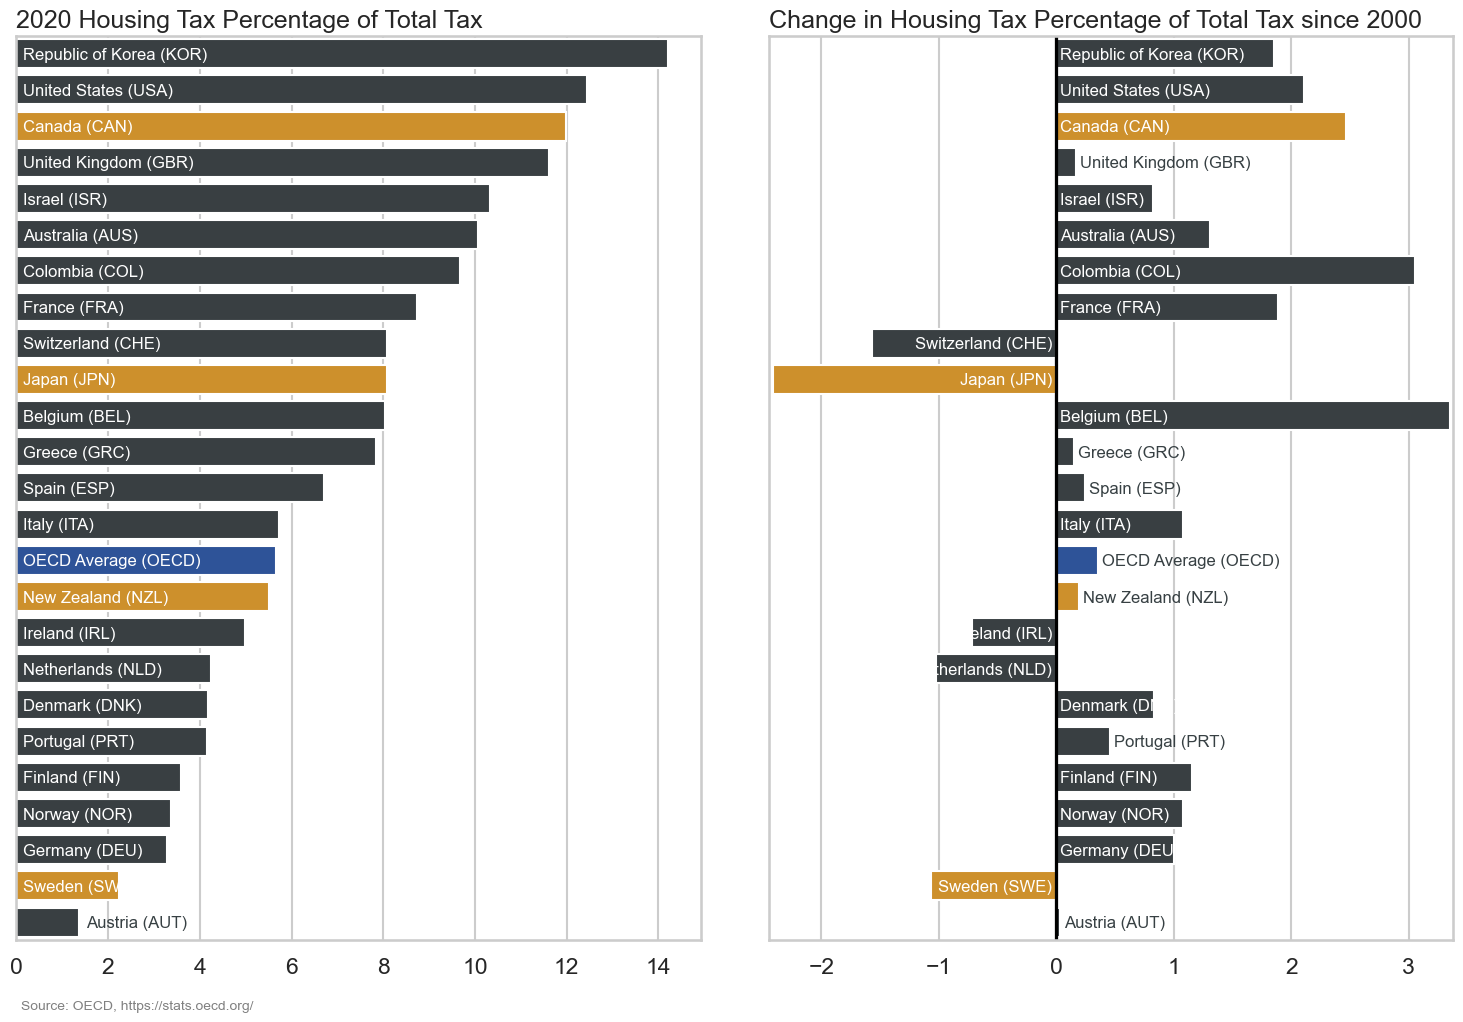
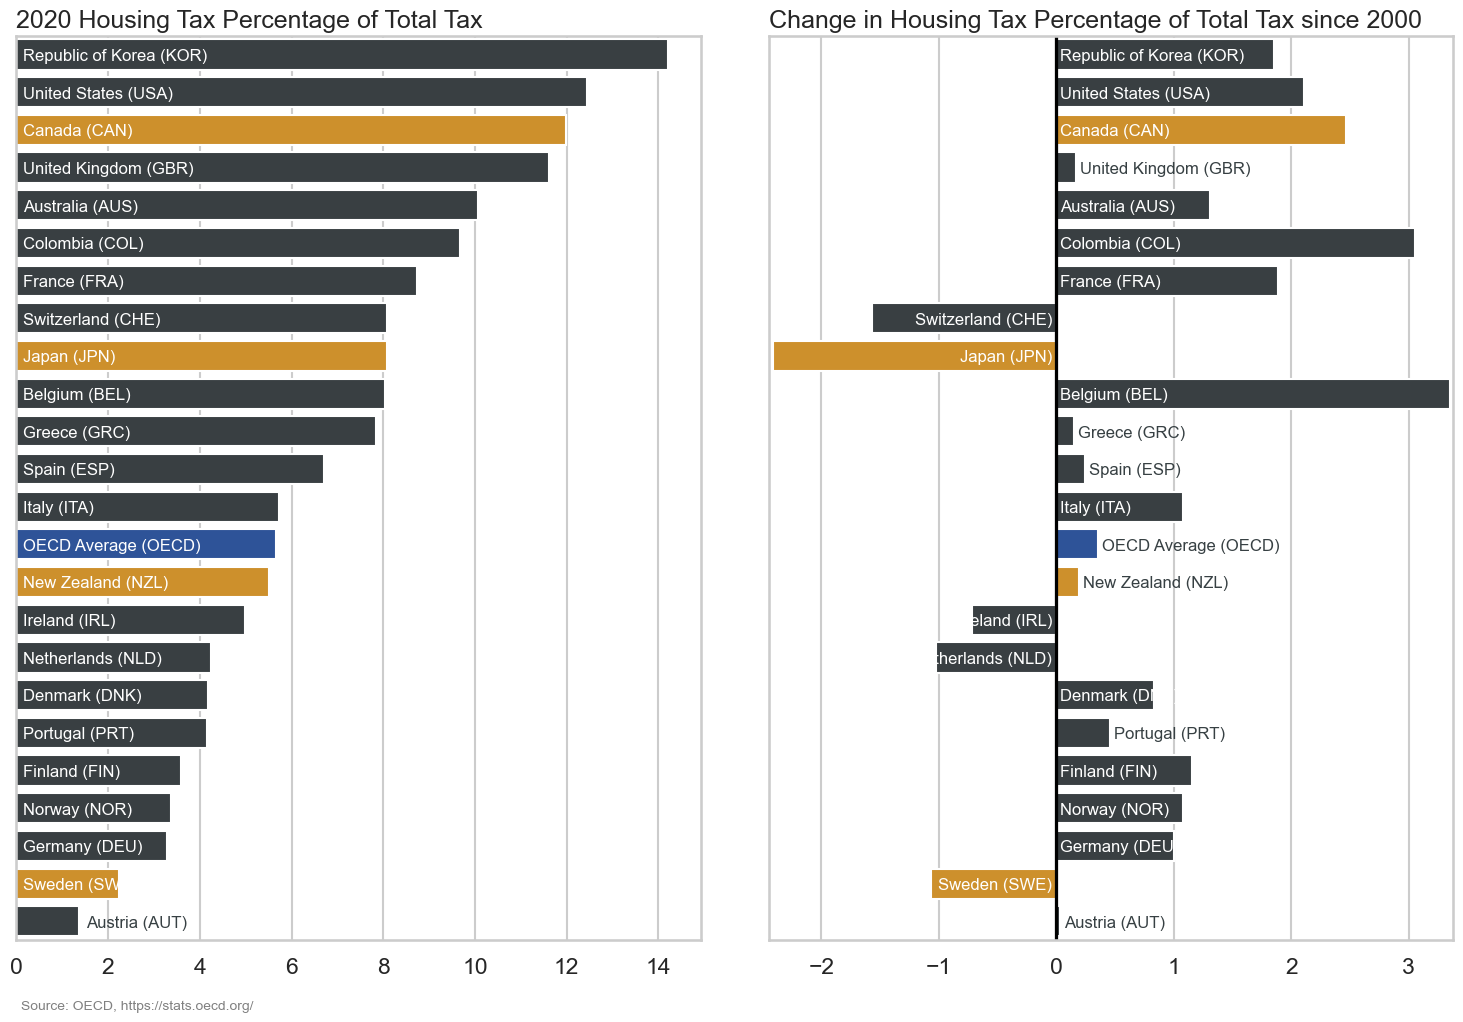
Remove countries with missing values

Changed region(s): [[0.0, 0.0303, 0.3999, 0.8796], [0.5229, 0.0303, 1.0, 0.8796]]

diff --git a/scripts/02-combine-datasets.py b/scripts/02-combine-datasets.py
@@ -70,10 +70,12 @@ def combine_datasets(country_codes, house_prices, property_tax):
     print("Removing countries with incomplete years...")
     # Filter years after 2020
     combined = combined[combined["Year"] <= 2020]
+    # Remove entries with missing values
+    combined = combined.dropna()
     # Get list of countries with complete years
     complete_countries = (
         combined.groupby("Code3")
-        .filter(lambda x: min(x["Year"]) == 2000)["Code3"]
+        .filter(lambda x: min(x["Year"]) == 2000 and max(x["Year"]) == 2020)["Code3"]
         .unique()
     )
     combined = combined[combined["Code3"].isin(complete_countries)]
